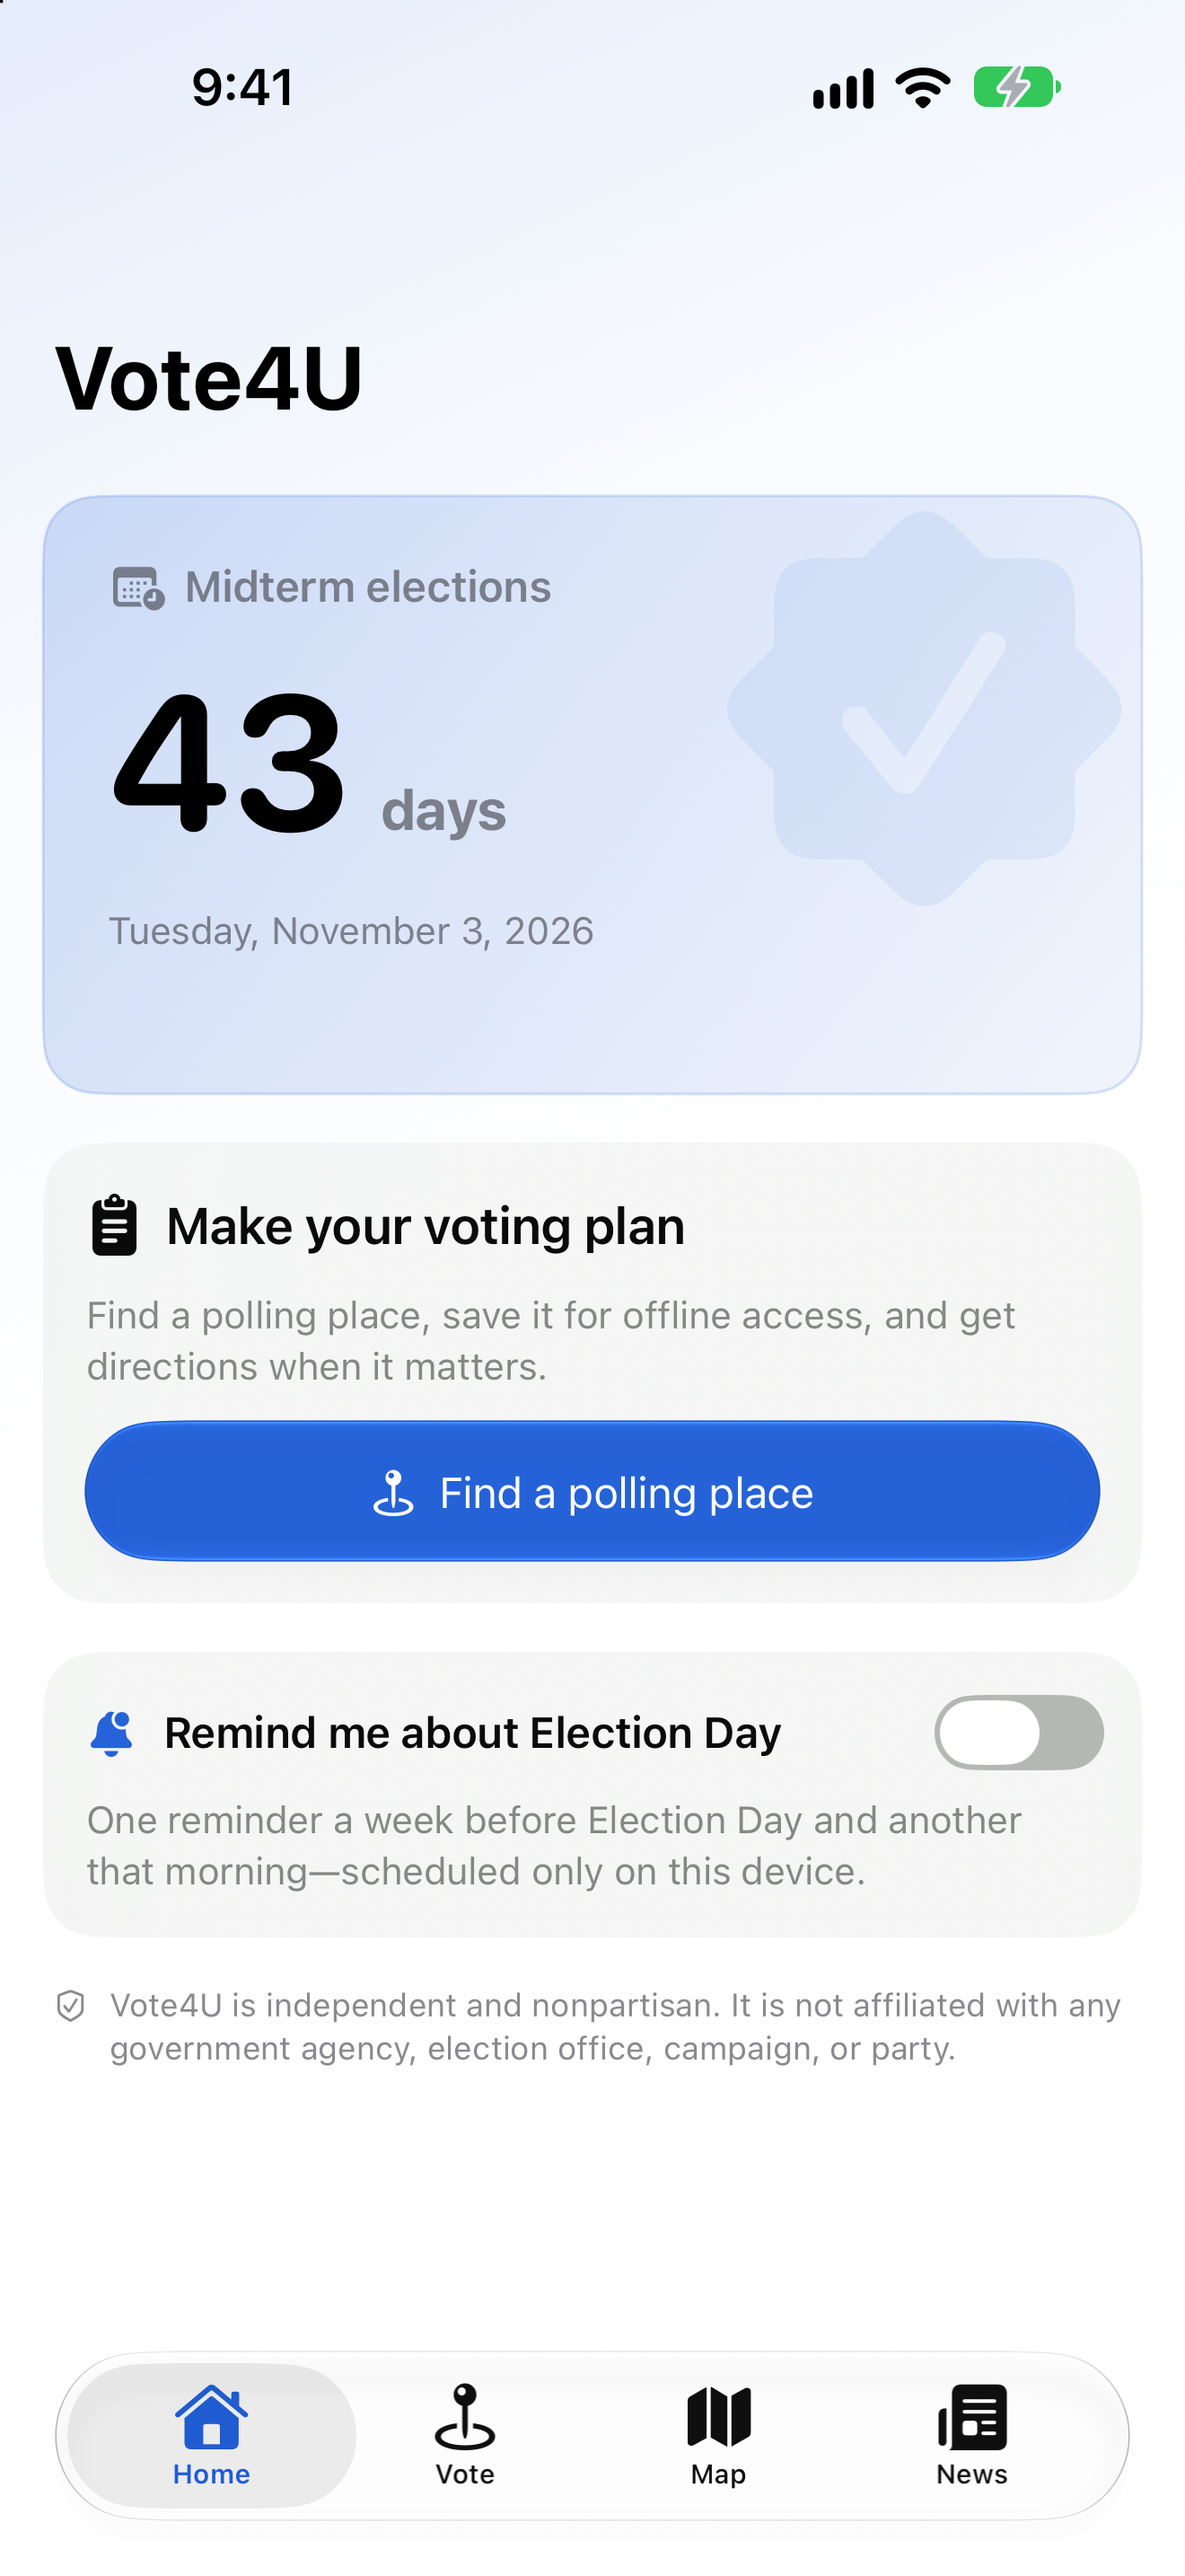
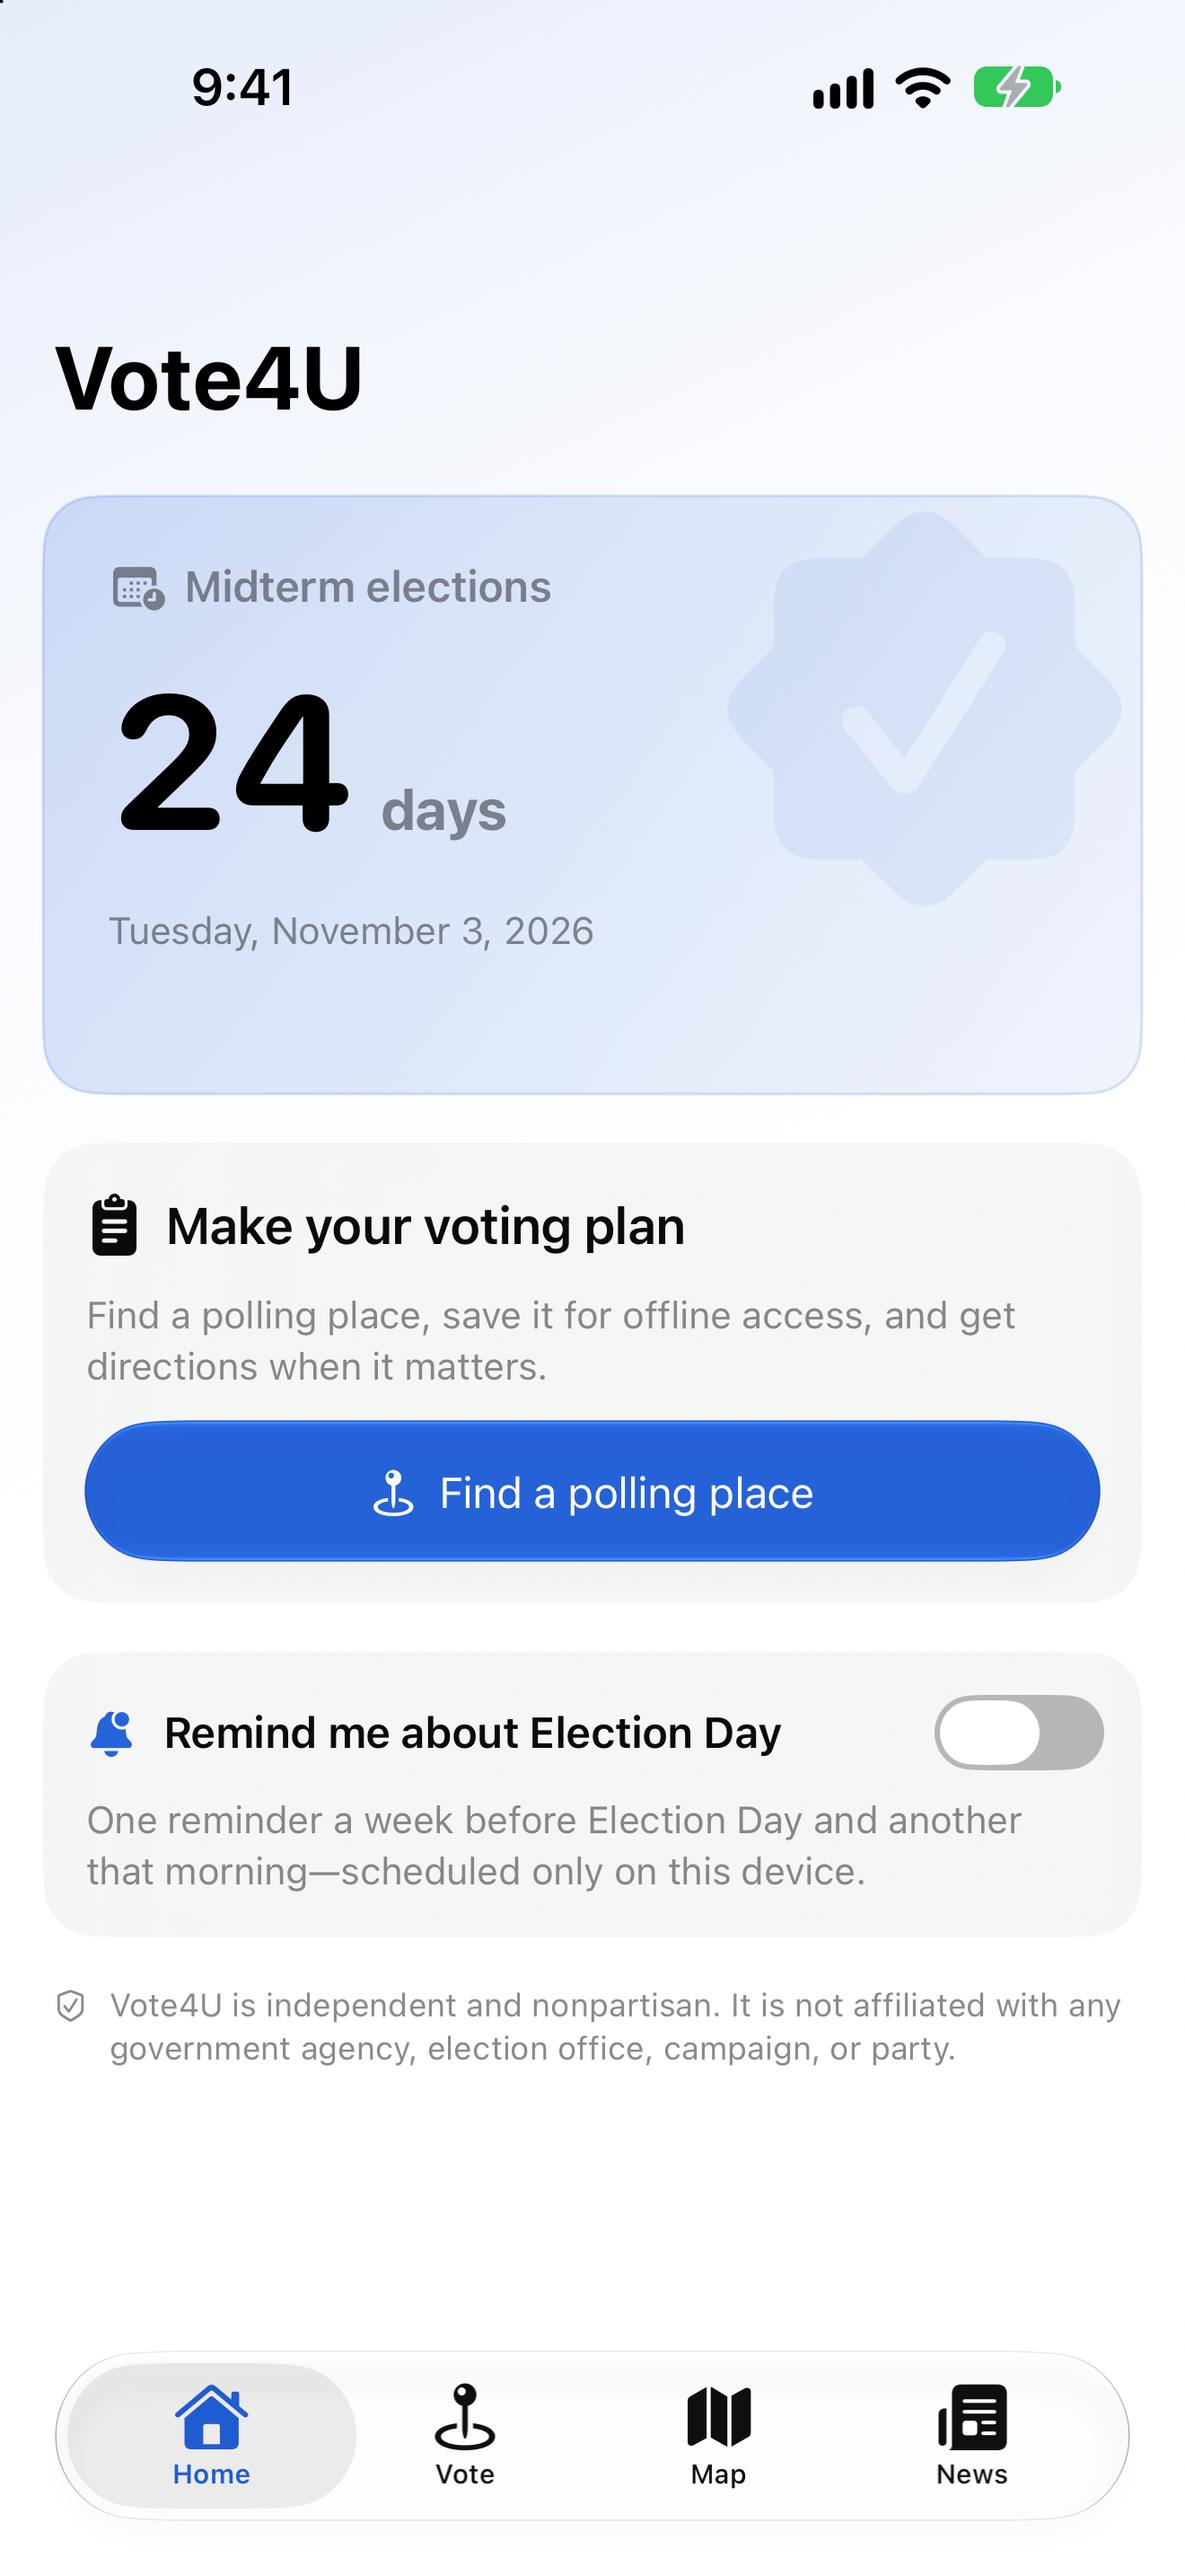
Record release validation and refresh production screenshots

Changed region(s): [[0.0932, 0.2483, 0.3106, 0.3414]]

diff --git a/HANDOFF.md b/HANDOFF.md
@@ -1212,3 +1212,39 @@ widget can appear or the existing database was migrated.
   Screen placement, full iPad interactions/accessibility, TestFlight and submission.
 - `ios/.swift-format` must be checked again after PR #4/#6/#11 Swift files arrive. Do not run
   the formatter with its 2-space default or replace `scripts/test-ios.sh` with a bare build.
+
+## 13. Release preparation — 2026-10-10
+
+This update supplements the broader current handoff in PR #12. Work is on
+`release/ios-signing-validation`, PR #13. The owner asked to test, improve UX and publish;
+owner-controlled merges remain in effect. No merge, TestFlight upload or submission occurred.
+
+- Configured Team ID `M6L74ZB5KS` for automatic signing on app, widget and test targets.
+  Initial identity/device checks found no valid identity and no physical phone. The actual
+  archive attempt with automatic provisioning reached Apple but failed because the team has
+  no registered devices for development profiles. Connect/unlock/trust an iPhone and enable
+  Developer Mode if prompted. Account access itself is therefore not the current blocker.
+- Fixed a trust gap: saved cards, shares and reminder text lost unconfirmed-location warnings.
+  Saved records now retain confirmation evidence/type; old records remain readable and
+  unconfirmed. Both saved cards link to the official lookup. Official API `isReal` is decoded;
+  missing evidence is no longer implicitly confirmed. Notification wording no longer claims
+  polls are open at 7am everywhere.
+- Saving/removing a venue previously rescheduled reminders despite an in-app opt-out when OS
+  permission remained granted. It now checks that setting; a real notification-queue test covers it.
+- Added the missing UserDefaults required-reason privacy manifest (`CA92.1`, app-local storage).
+  This does not replace or finalize App Store Connect collection disclosures.
+- Server 50/50 passed; browser/accessibility 90 passed / 9 expected skips; client build passed.
+  iOS 17.5 final test results and screenshot review are recorded in `ios/RELEASE_VALIDATION.md`.
+- Failures: the first run exposed an obsolete assertion that missing evidence meant official;
+  updated it and added explicit official-payload decoding coverage. A new saved-card UI test
+  could not reach Save with center-screen swipes over MapKit; dragging in the outer scroll
+  margin passed. Failed-run diagnostic collection was terminated after tests completed; those
+  xcresult bundles did not finalize, so use the textual logs, not those incomplete bundles.
+- Live production: health 200, news 200/15 articles, privacy 200, unauthenticated cleanup 401,
+  elections 503. The deployed elections route uses 503 for a missing Civic key. Owner should
+  check Production GOOGLE_CIVIC_API_KEY and redeploy without sharing the key in chat.
+- PRs #9/#10 remain unfinished drafts; this branch does not integrate them. Device GPS,
+  permission revocation, airplane mode, actual notification delivery, widget Home Screen
+  placement, production cleanup recurrence/deletion and host log retention remain unverified.
+
+See `ios/RELEASE_VALIDATION.md` for the owner checklist and the exact release gates.

diff --git a/ios/RELEASE_VALIDATION.md b/ios/RELEASE_VALIDATION.md
@@ -40,7 +40,15 @@ Record phone/iOS version, build number, date and observed result for each:
 - Public production checks: health 200, news 200 (15 articles), privacy 200,
   unauthenticated cleanup 401, elections 503. The elections route returns 503 when
   GOOGLE_CIVIC_API_KEY is missing; verify Production configuration and redeploy.
-- iOS validation is in progress; do not treat this document as release approval.
+- Required iOS 17.5 runner passed: 55 unit tests, 10 smoke UI tests, both notification
+  permission decisions, Release stub exclusion and widget iPhone/iPad family checks.
+- Privacy manifest is present and valid in both Debug and Release app bundles.
+- Fresh 1320 × 2868 screenshots captured and visually inspected on iOS 27: real unconfirmed
+  results, 24-day countdown, electoral map/search, official sources and current US election news.
+  This is a light-mode visual pass; full Dynamic Type/dark/VoiceOver device QA remains pending.
+- Widget registration observed with pluginkit on the iOS 27 simulator; Home Screen placement
+  is still not proven.
+- This evidence is not a signed device build or release approval.
 
 ## Changes under validation
 

diff --git a/ios/APP_STORE.md b/ios/APP_STORE.md
@@ -30,7 +30,7 @@ product; headlines are the fourth tab.
 voting,polling place,election,ballot,voter,vote,midterm,electoral,register,precinct,elections
 ```
 
-That is 92 characters. Notes: do not repeat words already in the app name or subtitle — Apple
+That is 93 characters. Notes: do not repeat words already in the app name or subtitle — Apple
 indexes those separately, so "Vote4U", "polling place" and "find" are wasted keyword space, and
 the duplication above of "polling place" should be dropped if you keep the current subtitle.
 Never use a competitor's or organisation's name.
@@ -179,7 +179,7 @@ has its own device-family requirement**:
 Apple's [App Extension Programming Guide](https://developer.apple.com/library/archive/documentation/General/Conceptual/ExtensibilityPG/ExtensionCreation.html)
 says extensions must target both iPhone and iPad even when the containing app is iPhone-only.
 
-**Captured 2026-09-21 and committed to `ios/screenshots/`** at 1320 × 2868. Regenerate with:
+**Captured 2026-10-10 and committed to `ios/screenshots/`** at 1320 × 2868. Regenerate with:
 
 ```
 ./scripts/capture-screenshots.sh
